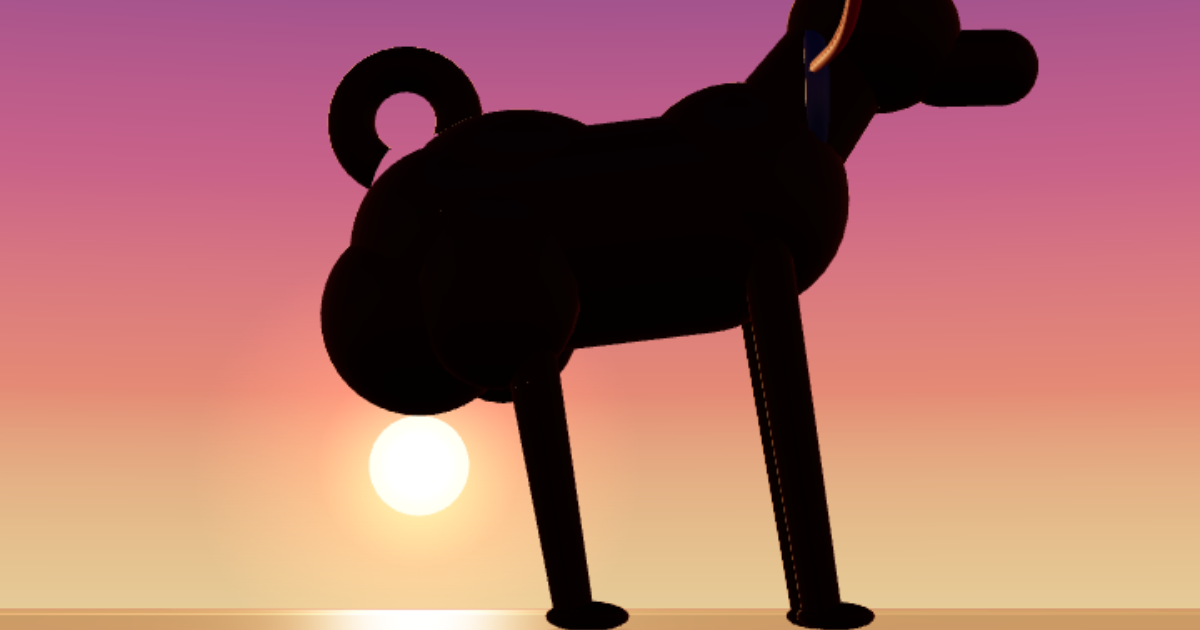
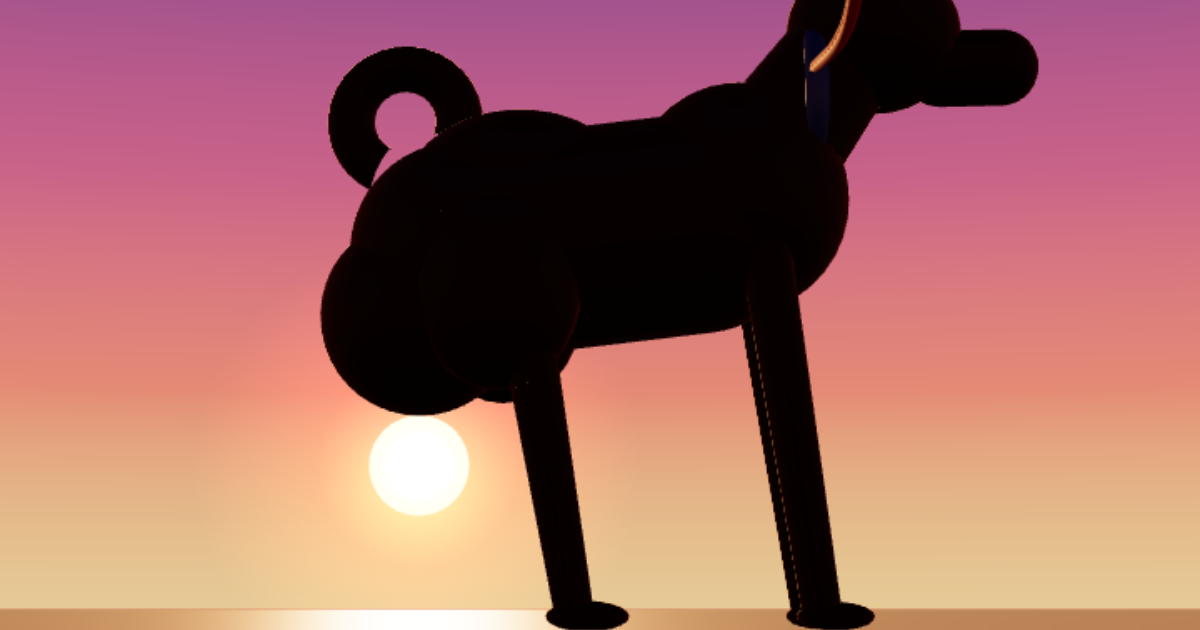
yuuhi: ぬれた砂に夕日が映るようにする（影のちらつきをなくす）
Claude-Session: https://claude.ai/code/session_01E5BBq7waBxSg39EVTyVM3T

diff --git a/yuuhi/index.html b/yuuhi/index.html
@@ -350,8 +350,8 @@ glit.rotation.x=-Math.PI/2;S.add(glit);
 function sandTex(){const c=document.createElement('canvas');c.width=c.height=256;const x=c.getContext('2d');x.fillStyle='#7a5a48';x.fillRect(0,0,256,256);
   for(let i=0;i<9000;i++){const v=rnd(i);x.fillStyle=`rgba(${v<.5?40:255},${v<.5?25:220},${v<.5?20:190},${.05+rnd(i+1)*.1})`;x.fillRect(rnd(i+2)*256,rnd(i+3)*256,1.2,1.2);}
   const t=new THREE.CanvasTexture(c);t.wrapS=t.wrapT=THREE.RepeatWrapping;t.repeat.set(30,30);t.colorSpace=THREE.SRGBColorSpace;return t;}
-const sand=new THREE.Mesh(new THREE.PlaneGeometry(60,40,1,1),new THREE.MeshPhysicalMaterial({map:sandTex(),color:'#e0b090',roughness:.35,clearcoat:1,clearcoatRoughness:.12,envMapIntensity:1.6}));
-sand.rotation.x=-Math.PI/2;sand.position.set(0,0,-6);sand.receiveShadow=true;S.add(sand);
+const sand=new THREE.Mesh(new THREE.PlaneGeometry(60,40,1,1),new THREE.MeshPhysicalMaterial({map:sandTex(),color:'#e0b090',roughness:.35,clearcoat:.45,clearcoatRoughness:.07,envMapIntensity:1.6}));
+sand.rotation.x=-Math.PI/2;sand.position.set(0,0,-6);sand.receiveShadow=false;S.add(sand);
 /* the low dune the dog stands on */
 /* thin foam line where the waves end */
 const foam=new THREE.Mesh(new THREE.PlaneGeometry(80,.25),new THREE.MeshBasicMaterial({color:'#ffd9b8',transparent:true,opacity:.55,depthWrite:false}));
